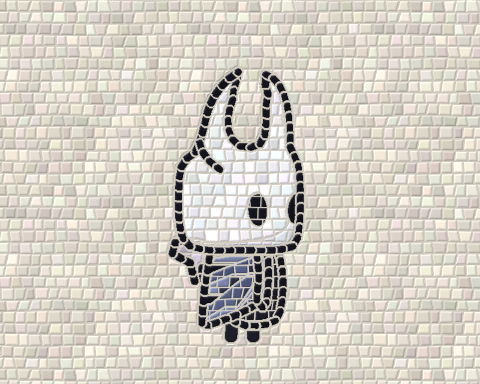
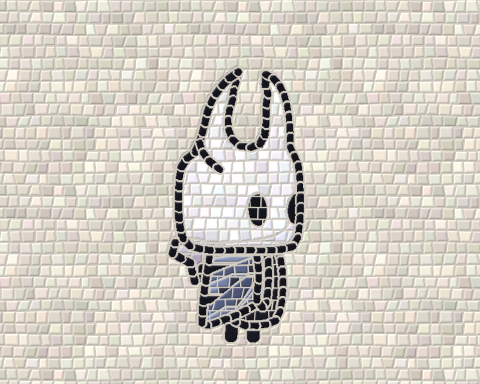
Weasel 1.37.2: mosaico sem trocar de tom quando uma forma some (mosaic)
O tom sorteado de cada pastilha vinha de um contador que andava a cada
peça pintada, e cada pastilha do contorno contava uma. Quando uma forma
de antes sumia em alguns quadros (show=0, opacity=0) ou tinha o
contorno desenhado aos poucos (draw=), o contador andava menos e as
pastilhas de todas as formas seguintes trocavam de tom de um quadro
para o outro (no teste, 81% de uma caixa parada mudava). Na sprite
sheet, um personagem com uma parte que aparece só às vezes tremia de
cor inteiro; no filme, o cenário cintilava.

- Agora o sorteio vem do número da forma (o mesmo do vitral e dos
  outros estilos com textura) e da ordem da peça dentro dela. A forma
  parada fica igual em todos os quadros. As animações só com ossos já
  não mudavam e continuam iguais.
- Os cortes não mudam; os tons das pastilhas, sim (no Cavaleiro, uns
  8% dos pontos, só nas formas; o fundo fica igual).
- Testes: as referências de estilo_mosaic e estilo_filme_tecido e as
  imagens do mosaico no capítulo 14 foram regravadas; as outras não
  mudaram. O plano de estilos registra a correção.

diff --git a/js/art.js b/js/art.js
@@ -3279,25 +3279,31 @@
       },
     };
   }
-  // o passe das peças: cada forma com uma cor sorteada, e cada pedaço das fileiras também (S.ids: 1 numa fileira)
+  // o passe das peças: cada forma com uma cor sorteada, e cada pedaço das fileiras também (S.ids: 1 numa fileira).
+  // S.keys: o número de cada peça para o sorteio dos tons, o da forma (it.key) mais a ordem da peça dentro dela; não
+  // muda quando uma forma de antes some ou ganha pastilhas no contorno, ao contrário da cor da peça neste passe
   function mosaicIds(S, art, g) {
     const sz = mosaicSize(art, g);
     let n = 0;
     S.ids = new Map();
+    S.keys = new Map();
     S.light = [-0.6, -0.8];
-    const col = (row) => {
-      const v = (Math.imul(++n, 2654435761) >>> 8) & 0xffffff;
+    const sub = new Map();
+    const col = (row, key) => {
+      const v = (Math.imul(++n, 2654435761) >>> 8) & 0xffffff, kk = key | 0, j = sub.get(kk) || 0;
+      sub.set(kk, j + 1);
       S.ids.set(v, row);
+      S.keys.set(v, Math.imul(kk ^ Math.imul(j + 1, 0x9e3779b1), 0x85ebca6b));
       return `rgb(${v >> 16},${(v >> 8) & 255},${v & 255})`;
     };
     return {
       glow: false,
-      fill(ctx, it) { S.light = it.light; ctx.fillStyle = col(0); ctx.fill(it.path); },
-      ink(ctx, it) { if (it.hasInk && it.ink > 0) tileRow(ctx, ptsOf(it.poly), true, it.ink, sz, () => col(1), null); },
+      fill(ctx, it) { S.light = it.light; ctx.fillStyle = col(0, it.key); ctx.fill(it.path); },
+      ink(ctx, it) { if (it.hasInk && it.ink > 0) tileRow(ctx, ptsOf(it.poly), true, it.ink, sz, () => col(1, it.key), null); },
       line(ctx, it) {
-        if (mosaicSlim(it, sz)) { tileRow(ctx, lineEdges(it).pts, false, it.ws ? Math.max(...it.ws) : it.w, sz, () => col(1), dashAt(it.el.dash)); return true; }
+        if (mosaicSlim(it, sz)) { tileRow(ctx, lineEdges(it).pts, false, it.ws ? Math.max(...it.ws) : it.w, sz, () => col(1, it.key), dashAt(it.el.dash)); return true; }
         ctx.save();
-        ctx.fillStyle = ctx.strokeStyle = col(0);
+        ctx.fillStyle = ctx.strokeStyle = col(0, it.key);
         it.body(ctx);
         ctx.restore();
         return true;
@@ -3313,15 +3319,15 @@
     src.content(IX.ctx, m, { unlit: true, stroke: mosaicIds(S, art, g) });
     IX.ctx.restore();
     const { P, own } = piecesOf(IX.ctx.getImageData(0, 0, Wd, Hd).data, S.ids, Wd, Hd);
-    // cada peça num número pequeno (slot; 0 é o fundo), a caixa dela e a cor sorteada dela (pid: não muda de um
-    // quadro para o outro, ao contrário do slot)
+    // cada peça num número pequeno (slot; 0 é o fundo), a caixa dela e o número dela para o sorteio (pid, de S.keys:
+    // não muda de um quadro para o outro, ao contrário do slot)
     const slot = new Int32Array(N), bx = [Infinity], by = [Infinity], ex = [-Infinity], ey = [-Infinity], isRow = [0], pid = [0], of = new Map();
     for (let y = 0, i = 0; y < Hd; y++) {
       for (let x = 0; x < Wd; x++, i++) {
         const p = P[i];
         if (p < 0) { slot[i] = 0; continue; }
         let s = of.get(p);
-        if (s === undefined) { s = bx.length; of.set(p, s); bx.push(Infinity); by.push(Infinity); ex.push(-Infinity); ey.push(-Infinity); isRow.push(S.ids.get(p)); pid.push(p); }
+        if (s === undefined) { s = bx.length; of.set(p, s); bx.push(Infinity); by.push(Infinity); ex.push(-Infinity); ey.push(-Infinity); isRow.push(S.ids.get(p)); pid.push(S.keys.get(p)); }
         slot[i] = s;
         if (x < bx[s]) bx[s] = x;
         if (x > ex[s]) ex[s] = x;

diff --git a/index.html b/index.html
@@ -6,7 +6,7 @@
 <title>Weasel — desenho por código</title>
 <link rel="icon" type="image/svg+xml" href="docs/logo.svg">
 <link rel="icon" type="image/png" sizes="64x64" href="docs/icone.png">
-<link rel="stylesheet" href="css/style.css?v=1.37.1">
+<link rel="stylesheet" href="css/style.css?v=1.37.2">
 </head>
 <body>
 <header class="top">
@@ -354,24 +354,24 @@ at 3s heroi.pos=1400,900 camera.pos=1300,540 ease=out</pre>
   </div>
 </dialog>
 
-<script src="js/geom.js?v=1.37.1"></script>
-<script src="js/lang.js?v=1.37.1"></script>
-<script src="js/art.js?v=1.37.1"></script>
-<script src="js/scene.js?v=1.37.1"></script>
-<script src="js/film.js?v=1.37.1"></script>
-<script src="js/audio.js?v=1.37.1"></script>
-<script src="js/nle.js?v=1.37.1"></script>
-<script src="js/webm.js?v=1.37.1"></script>
-<script src="js/svg.js?v=1.37.1"></script>
-<script src="js/gif.js?v=1.37.1"></script>
-<script src="js/zip.js?v=1.37.1"></script>
-<script src="js/normal.js?v=1.37.1"></script>
-<script src="js/export.js?v=1.37.1"></script>
-<script src="js/godot.js?v=1.37.1"></script>
-<script src="js/rig.js?v=1.37.1"></script>
-<script src="js/editor.js?v=1.37.1"></script>
-<script src="js/examples.js?v=1.37.1"></script>
-<script src="js/timeline.js?v=1.37.1"></script>
-<script src="js/app.js?v=1.37.1"></script>
+<script src="js/geom.js?v=1.37.2"></script>
+<script src="js/lang.js?v=1.37.2"></script>
+<script src="js/art.js?v=1.37.2"></script>
+<script src="js/scene.js?v=1.37.2"></script>
+<script src="js/film.js?v=1.37.2"></script>
+<script src="js/audio.js?v=1.37.2"></script>
+<script src="js/nle.js?v=1.37.2"></script>
+<script src="js/webm.js?v=1.37.2"></script>
+<script src="js/svg.js?v=1.37.2"></script>
+<script src="js/gif.js?v=1.37.2"></script>
+<script src="js/zip.js?v=1.37.2"></script>
+<script src="js/normal.js?v=1.37.2"></script>
+<script src="js/export.js?v=1.37.2"></script>
+<script src="js/godot.js?v=1.37.2"></script>
+<script src="js/rig.js?v=1.37.2"></script>
+<script src="js/editor.js?v=1.37.2"></script>
+<script src="js/examples.js?v=1.37.2"></script>
+<script src="js/timeline.js?v=1.37.2"></script>
+<script src="js/app.js?v=1.37.2"></script>
 </body>
 </html>

diff --git a/docs/planos/estilos.md b/docs/planos/estilos.md
@@ -249,6 +249,7 @@ O que está no [capítulo 14 do guia](../guia/14-estilos.md#ponto-cruz-mosaico-e
 - **`crt`:** umas 240 linhas (no mínimo 2 pontos cada), a máscara mais fraca nas imagens pequenas (com 1 ponto por cor, ela virava listras), a curva de 8% e os cantos de 2,5% a 7% do lado menor.
 - **As exportações de jogo:** a folha de quadros, o atlas do TileSet e o recorte (`--trim`) saem sem os efeitos de tela (`screen: false`); a janela de exportar e a linha de comando avisam na folha, no Godot e no SVG.
 - **Tempo:** no Cavaleiro (escala 0,6), uns 60 ms no `stitch`, 125 no `mosaic` e 140 no `knit`. Os efeitos de tela, num quadro de 1920 × 1080, de 30 ms (`glitch`) a 140 ms (`crt`) cada; os quatro juntos, uns 390 ms.
+- **Corrigido na 1.37.2, `mosaic`:** o tom sorteado de cada pastilha vinha de um contador que andava a cada peça pintada (cada pastilha do contorno contava uma). Quando uma forma de antes sumia em alguns quadros (`show=0`, `opacity=0`) ou tinha o contorno desenhado aos poucos (`draw=`), o contador andava menos, e as pastilhas de todas as formas seguintes trocavam de tom (no teste, 81% de uma caixa parada mudava). Agora o sorteio vem do número da forma (o mesmo do vitral e dos outros estilos com textura) e da ordem da peça dentro dela. Os cortes não mudaram; os tons das pastilhas, sim.
 
 ## O que já existe
 
